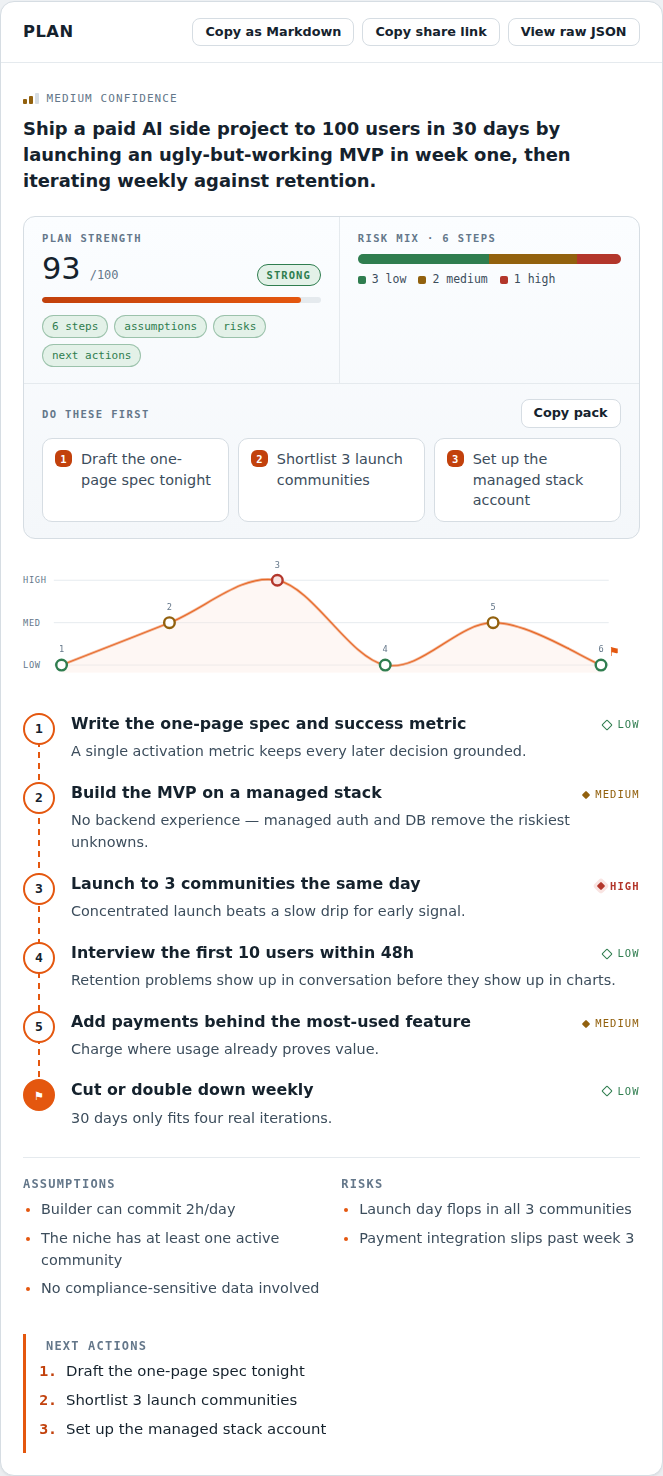
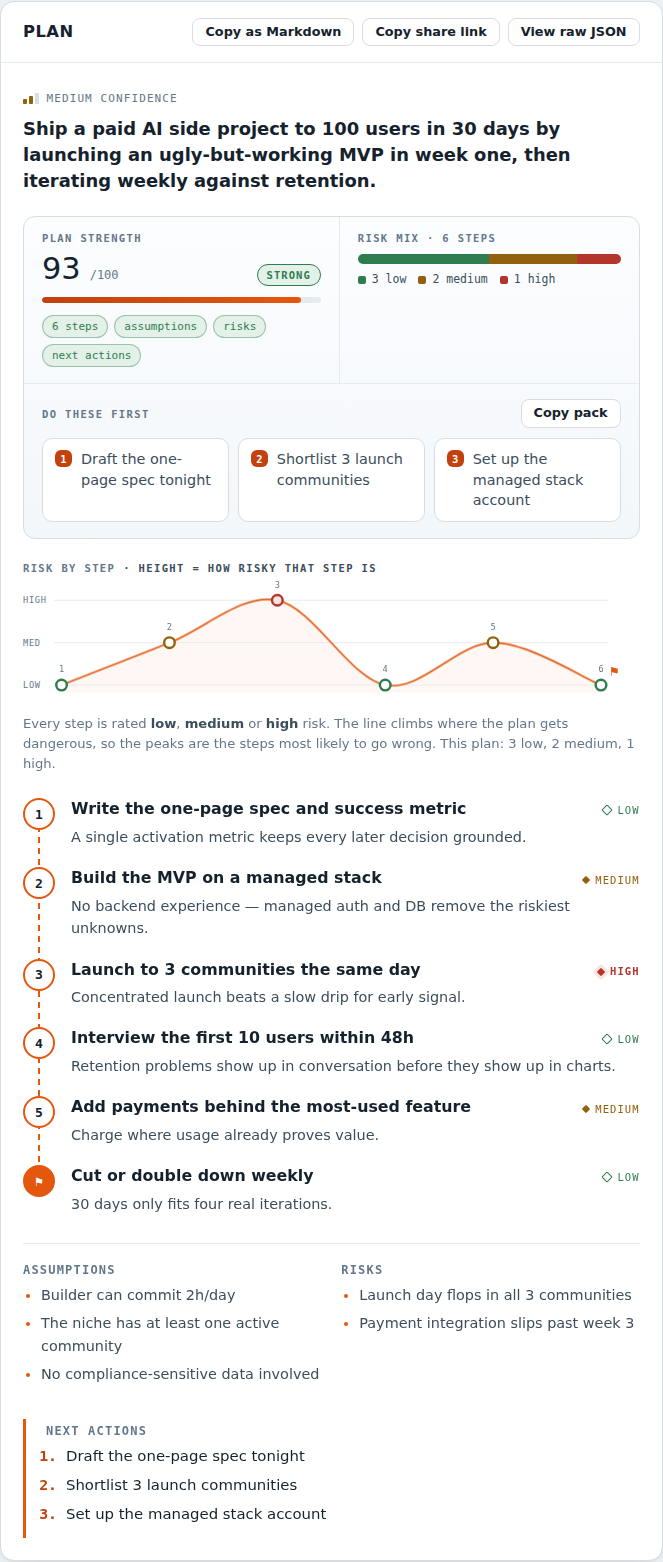
docs: refresh screenshots for the current UI
The screenshots in the README predated both the risk-axis explanation and the
Kimi K3 switch, so the public landing page was showing a build that no longer
exists — the footer named the wrong thing and the chart had no legend.

Recaptured 12-14 against current main and added 15, a close-up of the risk
chart with its axis explained, since that is the detail people ask about.

Also documents both changes in the README's change log.

Claude-Session: https://claude.ai/code/session_01PccRSE7ChTppDudybvgfnt

diff --git a/README.md b/README.md
@@ -135,9 +135,27 @@ New screenshots:
 | `12-hero-premium-desktop.png` | Rebuilt hero (desktop) |
 | `13-action-plan-pack.png` | Plan output with the Action Plan Pack |
 | `14-hero-premium-mobile.png` | Rebuilt hero (390px) |
+| `15-risk-axis-explained.png` | The risk chart with its axis explained |
 
 Captured in a sandbox without webfont access, so the display face falls back to
 system sans; production loads Archivo.
+
+### Kimi K3 + explained risk axis (2026-08-20)
+
+Two launch-driven changes:
+
+1. **The model is Kimi K3.** The default was `gpt-oss-120b`, which made the
+   project name a coincidence. It is now `accounts/fireworks/models/kimi-k3` —
+   Fireworks were Moonshot's launch partner for K3 and serve it on their
+   standard serverless tiers. Override with `FIREWORKS_MODEL`.
+2. **The risk axis explains itself.** The elevation strip labelled its gridlines
+   `high / med / low` and never said what was being measured. It now carries a
+   title ("Risk by step · height = how risky that step is") and a note spelling
+   out that every step is rated low/medium/high, that the line climbs where the
+   plan gets dangerous, and what this plan's mix is. Compare mode keeps the bare
+   mini strips.
+
+Screenshots `12`–`15` reflect this state.
 
 ## Run locally
 
